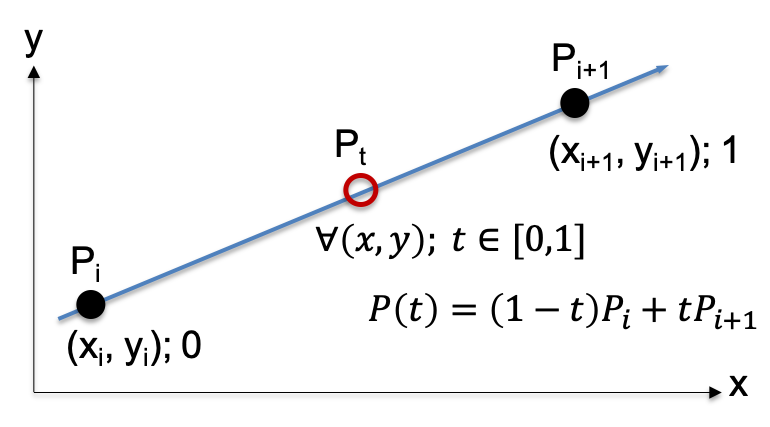
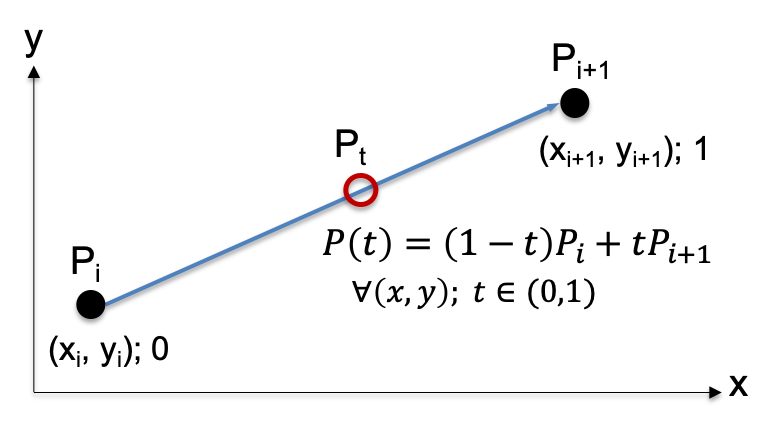
draft 0.4

diff --git a/index.html b/index.html
@@ -1668,7 +1668,8 @@ it explicitly has a "crs" or "trs" member with a JSON <code>null</code> value.</
 <h4 id="tprimitive"><a class="anchor" href="#tprimitive"></a>7.5.1. TemporalPrimitiveGeometry Object</h4>
 <div class="paragraph">
 <p>When a TemporalGeometry object has a <code>"type"</code> member with of of the value of <code>"MovingPoint"</code>, <code>"MovingLineString"</code>, <code>"MovingPolygon"</code>, and <code>"MovingPointCloud"</code>,
-the object SHALL be a TemporalPrimitiveGeometry object with additional memebers named <code>"datetimes"</code>, <code>"coordinates"</code>, <code>"interpolation"</code>, and <code>"orientations"</code>.</p>
+the object SHALL be a TemporalPrimitiveGeometry object with additional memebers named <code>"datetimes"</code>, <code>"coordinates"</code>, <code>"interpolation"</code>, and <code>"orientations"</code>.
+<a href="#appendix-b1">[appendix-b1]</a> shows examples of TemporalPrimitiveGeometry instances.</p>
 </div>
 <div class="listingblock">
 <div class="content">
@@ -1707,7 +1708,7 @@ It does NOT allow a JSON <code>null</code> vlaue and an empty array.</p>
 <tr>
 <td class="tableblock halign-left valign-top" style="background-color: #FFFFFF;"><p class="tableblock">TimeInstant</p></td>
 <td class="tableblock halign-center valign-top" style="background-color: #FFFFFF;"><p class="tableblock">[t1, t2, t3, &#8230;&#8203;]</p></td>
-<td class="tableblock halign-left valign-top" style="background-color: #FFFFFF;"><p class="tableblock"><em>a list of monotonic increasing instants</em></p></td>
+<td class="tableblock halign-left valign-top" style="background-color: #FFFFFF;"><p class="tableblock"><em>a list of monotonic increasing instants, i.e., \(t1 &lt; t2 &lt; t3 &lt;...\)</em></p></td>
 </tr>
 </tbody>
 </table>
@@ -1838,11 +1839,30 @@ The value of <code>"interpolation"</code> describes the position \((x, y, z)\) o
 When an feature is moving, each of these variables can be expressed in terms of a third or fourth variable called a parameter.
 The two most commonly used parameters are time and distance traveled along the path of motion.
 In general, parametric equations of three-dimensional are represented by any three such functions that depending on the same variable \(t\) as
-\(x = x(t)\), \(y = y(t)\), and \(z = z(t)\).
-In orther words, the point \(P(t)\) is described as</p>
+\(x = x(t)\), \(y = y(t)\), and \(z = z(t)\).</p>
+<div class="paragraph">
+<p>In orther words, the position \(P(t)\) is described as</p>
+</div>
 <div class="stemblock">
 <div class="content">
-\[p(t) = (x(t), y(t), z(t)).\]
+\[P(t) = (x(t), y(t), z(t));\]
+</div>
+</div>
+<div class="paragraph">
+<p>velocity \(v\) is the derivative of position (first derivative of position) with respect to time as follows:</p>
+</div>
+<div class="stemblock">
+<div class="content">
+\[v(t) = P'(x'(t), y'(t), z'(t));\]
+</div>
+</div>
+<div class="paragraph">
+<p>and
+acceleration \(a\) is the derivative of velocity (second derivative of position) with respect to time as follows:</p>
+</div>
+<div class="stemblock">
+<div class="content">
+\[a(t) = v'(t) = P''(x''(t), y''(t), z''(t)).\]
 </div>
 </div>
 </li>
@@ -1856,9 +1876,25 @@ In orther words, the point \(P(t)\) is described as</p>
 </td>
 <td class="content">
 <div class="paragraph">
-<p>For example, when a feature continously moves over time and explicitly reports its position at four times as shown in <a href="#mf-interpolation">Figure 8</a>.
+<p>For example, when a feature continously moves over time but there are only four explicit positions as shown in <a href="#mf-interpolation">Figure 8</a>.
 Depending on the parametric equation, the motion can be modelled with different curves in the plan.
-The <code>"interpolation"</code> member allows applications to design a movement function that describes the position at any time using the given set of coordinates.</p>
+The <code>"interpolation"</code> member allows applications to design a movement function that describes the position at any time using the given set of coordinates and conditions about:</p>
+</div>
+<div class="ulist">
+<ul>
+<li>
+<p>Desired slope,</p>
+</li>
+<li>
+<p>Continuity,</p>
+</li>
+<li>
+<p>Smoothness, and</p>
+</li>
+<li>
+<p>Convexity.</p>
+</li>
+</ul>
 </div>
 </td>
 </tr>
@@ -1871,37 +1907,83 @@ The <code>"interpolation"</code> member allows applications to design a movement
 <div class="title">Figure 8. The dynamic motion of a feature on parametized curves</div>
 </div>
 <div class="paragraph">
-<p>In this standard, there are two expressions for the case-sensitive string value of member <code>"interpolation"</code>: the name of a predefined motion curve or a URL to address user-defined parametric curve
-defined on an interval \(I\) of parameter \(t\)-value. See <a href="#interpolation">[interpolation]</a> for the representation of a user-defined parametric curve.
-Given \(n+1\) positions \(\{P_0, P_1, ..., P_n\}\) at times \(\{t_0, t_1, ..., t_n\}\) of the <code>"datetimes"</code> value.,
-a temporal trajectory can be realized by using a predefined parametric curve.
-The type of predefined parametric curves of motion is as follows:</p>
+<p>Given \((n+1)\) positions \(\{P_0, P_1, ..., P_n\}\) at each time instant in \(T=\{t_0, t_1, ..., t_n\}\)
+with the strictly increasing condition \(t_0 &lt; t_1 &lt; ...&lt; t_n\),
+a temporal trajectory can be realized by \(m\) parametric curves \(\{C_0, C_1, ..., C_m\}\) with a polynomial of low degree,
+where \( 0 \leq m \leq n\).</p>
+</div>
+<div class="paragraph">
+<p>Let \(P_i\), \(P_{i+1}\) be two positions at two consecutive times \(t_i\) and \(t_{i+1}\),
+\(C_i\) a curve to connect between two positions, and \(|T|\) a number of elements of T.
+Given time \(t\) in an open interval \(I=(t_i, t_{i+1})\), i.e., \(t \in I\),
+the position \(P(t)\) is interpolated as:</p>
+</div>
+<div class="stemblock">
+<div class="content">
+\[P(t) = C(\hat{t}), \quad  \hat{t} = (t-t_i) / (t_{i+1}-t_i), 0 &lt; \hat{t} &lt; 1.\]
+</div>
+</div>
+<div class="paragraph">
+<p>For reducing the cost of MF-JSON encoding,
+this standard defines six values for parametric curves of motion: <code>"Discrete"</code>, <code>"Step"</code>, <code>"Linear"</code>, <code>"Hermit"</code>, and <code>"CatmullRom"</code>.</p>
 </div>
 <div class="olist loweralpha">
 <ol class="loweralpha" type="a">
 <li>
-<p><code>Discrete</code> : The positions are NOT connected. The position is valid at an element instant in the <code>"datetimes"</code> value.</p>
+<p><code>"Discrete"</code> : The positions are NOT connected. i.e., \(C(\hat{t}) = \emptyset\).</p>
 </li>
 <li>
-<p><code>Linear</code> : This method is the default value of the <code>"interpolation"</code>. It connects straight lines between positions.
-The position \(p\) at time \(t\) is calculated from the linear spline interpolation with two positions at two successive instants.
-For this interpolation, the temporal geometry has to more than two elements in the <code>"datetimes"</code> value.</p>
+<p><code>"Step"</code> : It just jumps from one position to the next halfway through. It would be useful for representing an accident or event.
+
+ \[
+  C(\hat{t}) = \begin{cases}
+   P_i   &amp; \quad \text{if } \hat{t} &lt; \text{0.5}\\
+   P_{i+1}  &amp; \quad \text{otherwise}
+ \end{cases}
+ \]
+</p>
 </li>
 <li>
-<p><code>Linear</code> :</p>
+<p><code>"Linear"</code> : This method is the <strong>default</strong> value of the <code>"interpolation"</code> member. It connects straight lines between positions.
+For this interpolation, |T| must be at least two.
+
+ \[
+  C(\hat{t}) = (1-\hat{t})P_i + \hat{t}P_{i+1}
+ \]
+</p>
+</li>
+<li>
+<p><code>"Hermit"</code> :</p>
+</li>
+<li>
+<p><code>"CatmullRom"</code> :</p>
 <table class="tableblock frame-all grid-all" style="width: 99%;">
 <colgroup>
-<col style="width: 50%;">
-<col style="width: 50%;">
+<col style="width: 12.5%;">
+<col style="width: 37.5%;">
+<col style="width: 12.5%;">
+<col style="width: 37.5%;">
 </colgroup>
+<thead>
+<tr>
+<th class="tableblock halign-left valign-top" style="background-color: #FFFFFF;">Names</th>
+<th class="tableblock halign-left valign-top" style="background-color: #FFFFFF;">Curves</th>
+<th class="tableblock halign-left valign-top" style="background-color: #FFFFFF;">Names</th>
+<th class="tableblock halign-left valign-top" style="background-color: #FFFFFF;">Curves</th>
+</tr>
+</thead>
 <tbody>
 <tr>
-<td class="tableblock halign-left valign-top" style="background-color: #FFFFFF;"><p class="tableblock">a. Discrete <span class="image"><img src="./images/mf-discrete.png" alt="Discrete" width="70%"></span></p></td>
-<td class="tableblock halign-left valign-top" style="background-color: #FFFFFF;"><p class="tableblock">b. Linear <span class="image"><img src="./images/mf-linear.png" alt="Linear" width="70%"></span></p></td>
+<td class="tableblock halign-left valign-top" style="background-color: #FFFFFF;"><p class="tableblock">Step</p></td>
+<td class="tableblock halign-left valign-top" style="background-color: #FFFFFF;"><p class="tableblock"><span class="image"><img src="./images/mf-step.png" alt="Step" width="70%"></span></p></td>
+<td class="tableblock halign-left valign-top" style="background-color: #FFFFFF;"><p class="tableblock">Linear</p></td>
+<td class="tableblock halign-left valign-top" style="background-color: #FFFFFF;"><p class="tableblock"><span class="image"><img src="./images/mf-linear.png" alt="Linear" width="70%"></span></p></td>
 </tr>
 <tr>
-<td class="tableblock halign-left valign-top" style="background-color: #FFFFFF;"><p class="tableblock">c. Spline</p></td>
-<td class="tableblock halign-left valign-top" style="background-color: #FFFFFF;"><p class="tableblock"><span class="image"><img src="./images/spline.png" alt="Spline" width="70%"></span></p></td>
+<td class="tableblock halign-left valign-top" style="background-color: #FFFFFF;"><p class="tableblock">Hermit</p></td>
+<td class="tableblock halign-left valign-top" style="background-color: #FFFFFF;"><p class="tableblock"><span class="image"><img src="./images/mf-hermit.png" alt="Hermit" width="70%"></span></p></td>
+<td class="tableblock halign-left valign-top" style="background-color: #FFFFFF;"><p class="tableblock">CatmullRom</p></td>
+<td class="tableblock halign-left valign-top" style="background-color: #FFFFFF;"><p class="tableblock"><span class="image"><img src="./images/mf-catmull.png" alt="CatmullRom" width="70%"></span></p></td>
 </tr>
 </tbody>
 </table>
@@ -1909,27 +1991,9 @@ For this interpolation, the temporal geometry has to more than two elements in t
 </ol>
 </div>
 <div class="paragraph">
-<p>For that, the value represents a specific parametric motion in two- or three-space.</p>
-</div>
-<div class="paragraph">
-<p>Because the x, y, and z values depend on an additional parameter (time) that is not a part of the coordinate system,
-kinematic equations are also known as parametric equations.</p>
-</div>
-<div class="paragraph">
-<p>Since all perpendicular directions are orthogonal and since any vector quantity can be resolved into components along these directions, n-dimensional motion can be completely described by n one-dimensional algebraic expressions in n perpendicular directions (where n is any whole number greater than zero).</p>
-</div>
-<div class="paragraph">
-<p>When an object moves with a constant speed at a particular direction at regular intervals of time it&#8217;s known as the uniform motion. For example: a bike moving in a straight line with a constant speed.</p>
-</div>
-<div class="paragraph">
-<p>an GeometricInterpolation object (see <a href="#interpolation">[interpolation]</a>).
-If a TemporalPrimitiveGeometry object has this member, then it is the default GeometricInterpolation object.</p>
-</div>
-<div class="paragraph">
-<p>The unknown position at a particular instant within a time period can be found using the GeometricInterpolation instance.</p>
-</div>
-<div class="paragraph">
-<p><a href="#appendix-b1">[appendix-b1]</a> shows examples of TemporalPrimitiveGeometry instances.</p>
+<p>If applications need to define their own interpolation methods, the <code>"interpolation"</code> member has a URL to
+address a JSON array of parametric equations defined on a set of intervals of parameter \(t\)-value.
+See <a href="#interpolation">[interpolation]</a> for the representation of a user-defined parametric curve.</p>
 </div>
 <div class="ulist">
 <ul>
